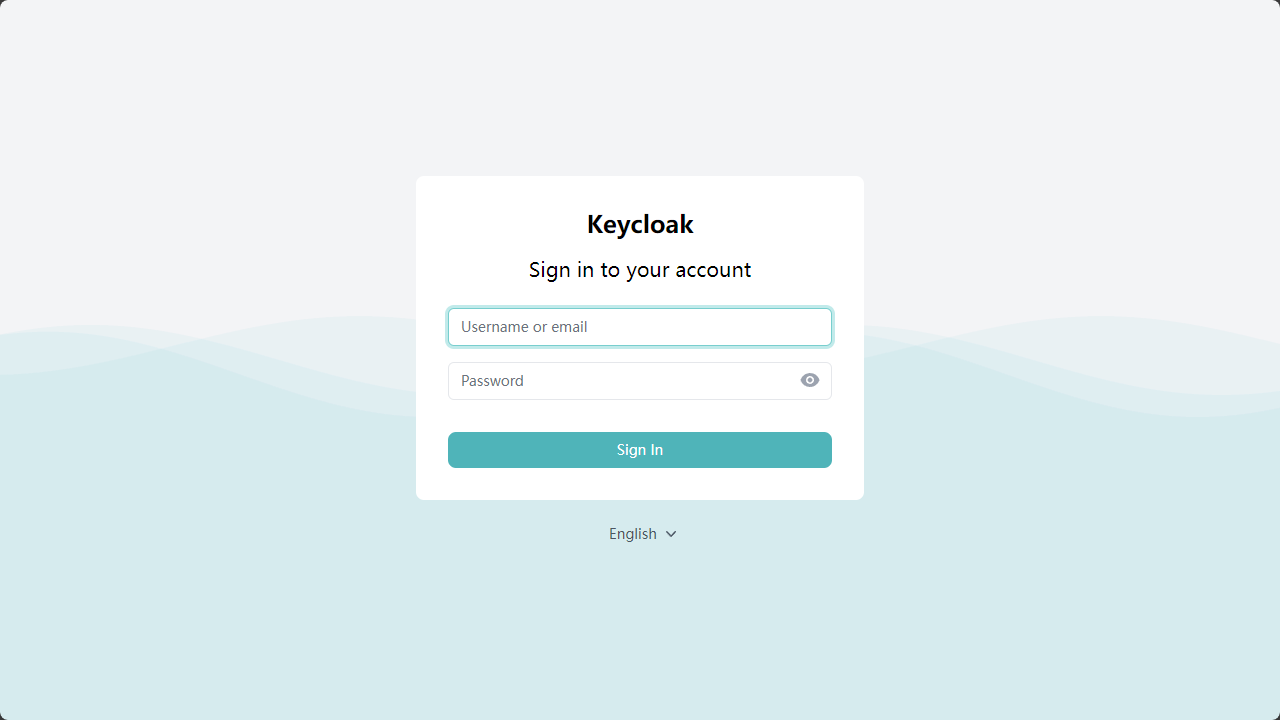
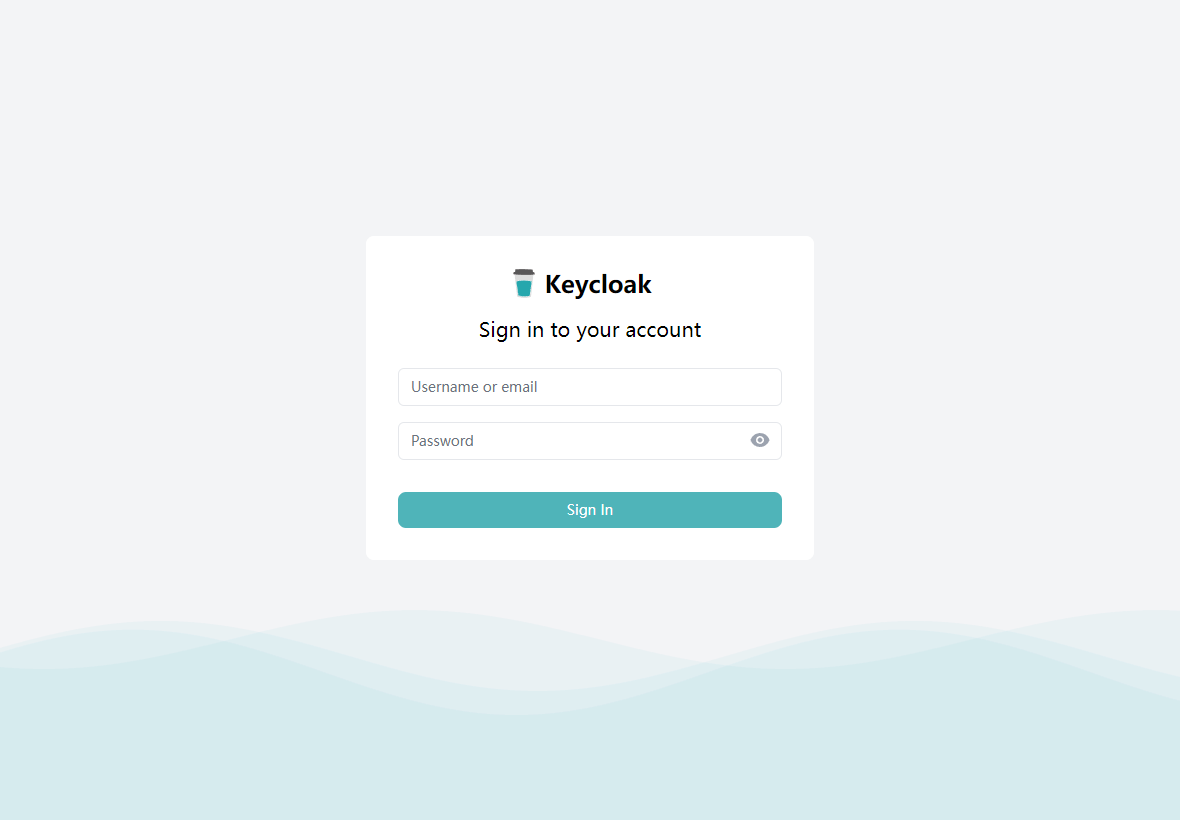
docs: update README.md

Changed region(s): [[0.0, 0.3056, 1.0, 0.825]]

diff --git a/README.md b/README.md
@@ -83,21 +83,11 @@ Technical reference:
 
 ### Feature & Fix:
 
-- Add a dynamic wave effect that follows the mouse movement.
-- Customized theme color.
+- Add a customizable dynamic wave effect.
+- Support custom logo.
+- Support custom color scheme.
 - Fix a missing translation in zh-CN.
 
-### Customize the water wave effect:
+### Customize theme:
 
-Go to `theme/keywind-mint-flavor/login/resources/index.css`, change the following parameter:
-
-```css
-animation: ... 300s ...; // Animation speed (300s, smaller is faster)
-transition: ... 8s; // How fast will the wave move when tracking mouse movement (8s, smaller is faster)
---amplitude: 35; // The distance between the highest and lowest points of a wave
---gap: 120; // The distance between two wave crests
---height: 0.5; // The ratio of the animation area height to the background area height
---layer1color: #29bac20d; // Layer 1 wave color, rgba format
---layer2color: #29bac20d; // Layer 2 wave color, rgba format
---layer3color: #29bac20d; // Layer 3 wave color, rgba format
-```
+Go to `theme/keywind-mint-flavor/login/theme.properties`, then adjust according to your needs.
